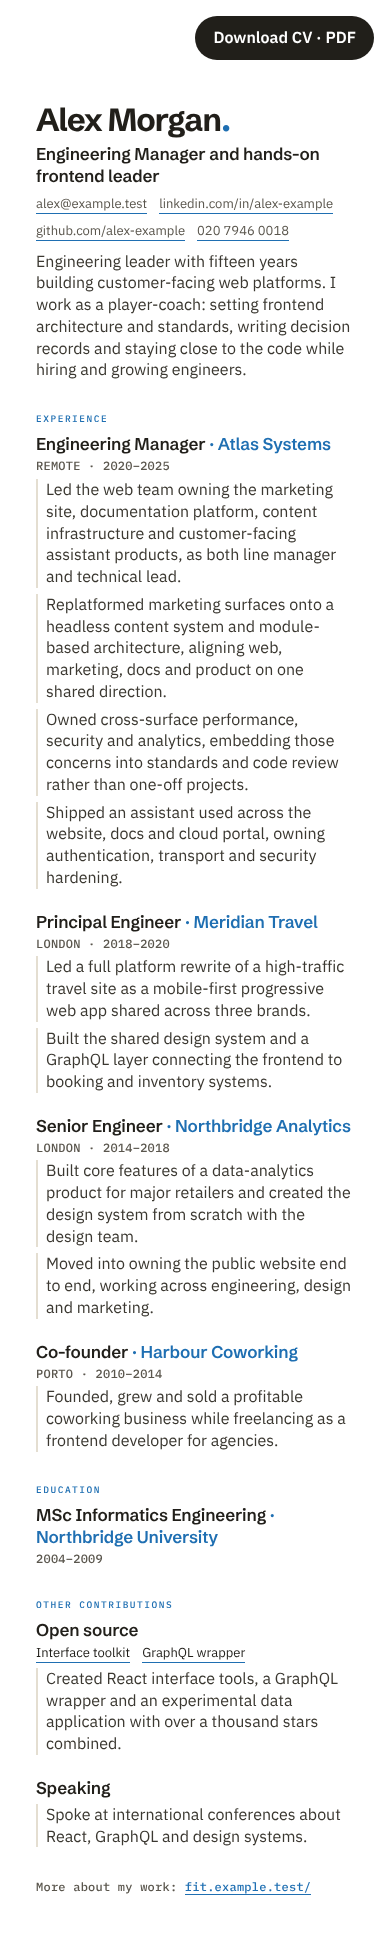
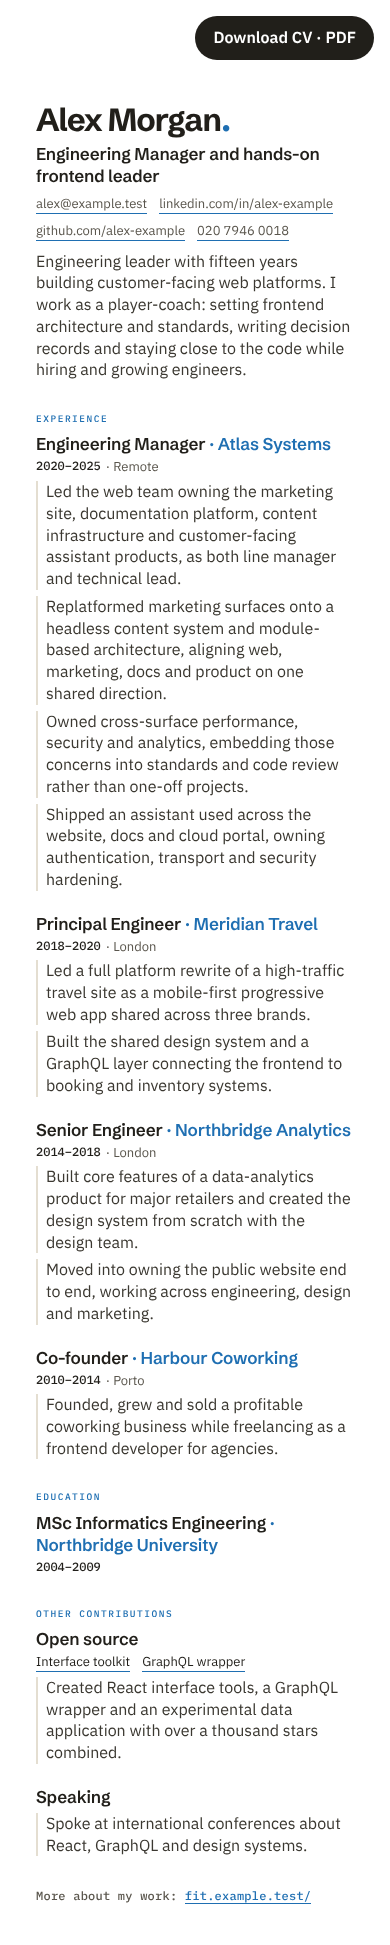
Lay out CV entries like the fit page CV
Dates and location move into a left meta column beside the title and
evidence, as on the fit page; on mobile the meta line sits under the
title.

Claude-Session: https://claude.ai/code/session_01GAwkU9J7SXUxrdqUJrLukE

diff --git a/lib/application-cv-render.js b/lib/application-cv-render.js
@@ -26,12 +26,16 @@ async function embeddedFonts() {
   return faces.map(([family,,weight],index) => `@font-face{font-family:${family};src:url(data:font/ttf;base64,${fonts[index]}) format('truetype');font-weight:${weight}}`).join('\n  ');
 }
 
+// Like the fit page CV: dates and place sit in a left meta column beside the
+// title and evidence. The meta column comes first in the DOM but carries no
+// validated text, so the PDF reading-order check is unaffected.
 function entryMarkup(entry, className='entry') {
-  const place=[entry.company ? entry.location : '',entry.dates].map(clean).filter(Boolean).join(' · ');
-  return `<article class="${className}"><div class="entry-head"><span class="entry-title"><strong>${escape(entry.title)}</strong>${entry.company || entry.location ? ` <span class="entry-org">· ${escape(entry.company || entry.location)}</span>` : ''}</span>
-    ${place ? `<span class="entry-when">${escape(place)}</span>` : ''}${publicApplicationCvLinks(entry.links).length ? `<div class="entry-links">${publicApplicationCvLinks(entry.links).map(link=>`<a href="${escape(link.href)}">${escape(link.label)}</a>`).join('')}</div>` : ''}</div>
+  const dates=clean(entry.dates),place=clean(entry.company ? entry.location : '');
+  return `<article class="${className}"><div class="entry-meta">${dates ? `<span class="entry-when">${escape(dates)}</span>` : ''}${place ? `<span class="entry-place">${escape(place)}</span>` : ''}</div>
+    <div class="entry-body"><div class="entry-head"><span class="entry-title"><strong>${escape(entry.title)}</strong>${entry.company || entry.location ? ` <span class="entry-org">· ${escape(entry.company || entry.location)}</span>` : ''}</span>
+    ${publicApplicationCvLinks(entry.links).length ? `<div class="entry-links">${publicApplicationCvLinks(entry.links).map(link=>`<a href="${escape(link.href)}">${escape(link.label)}</a>`).join('')}</div>` : ''}</div>
     ${(entry.bullets || []).map(bullet => `<p class="entry-detail">${escape(bullet.text)}</p>`).join('')}
-</article>`;
+</div></article>`;
 }
 
 export async function renderApplicationCvHtml(content,{minBodyPx=13,showDownload=false}={}) {
@@ -57,9 +61,11 @@ export async function renderApplicationCvHtml(content,{minBodyPx=13,showDownload
   .intro{margin:10px 0 0;max-width:180mm;color:var(--body)}
   section{margin-top:7mm;background:transparent;border:0;border-radius:0;padding:0}
   h2{font:500 9.5px/1.3 PlexMono,monospace;letter-spacing:.16em;text-transform:uppercase;color:var(--accent);margin:0 0 8px}
-  .entry{margin:0 0 12px;break-inside:avoid}.entry:last-child{margin-bottom:0}.entry-head{display:flex;justify-content:space-between;gap:10px;align-items:baseline}
+  .entry{display:grid;grid-template-columns:29mm minmax(0,1fr);column-gap:5mm;margin:0 0 12px;break-inside:avoid}.entry:last-child{margin-bottom:0}
+  .entry-meta{display:flex;flex-direction:column;gap:1px;padding-top:2px}.entry-place{font-size:10.5px;line-height:1.35;color:var(--sub)}
+  .entry-head{display:flex;justify-content:space-between;gap:10px;align-items:baseline}
   .entry-title{font:600 14px/1.3 Schibsted,Plex,sans-serif;letter-spacing:-.01em}.entry-title strong{font-weight:600}.entry-org{color:var(--accent)}
-  .entry-when{font:500 9.5px/1.3 PlexMono,monospace;letter-spacing:.02em;white-space:nowrap;color:var(--sub);text-transform:uppercase}
+  .entry-when{font:500 9.5px/1.4 PlexMono,monospace;letter-spacing:0;white-space:nowrap;color:#211f1a}
   .entry-detail{margin:4px 0 0;padding-left:8px;border-left:2px solid #e4ded1;break-inside:avoid;color:var(--body)}.entry-head+.entry-detail{margin-top:5px}section:first-of-type .entry-detail+.entry-detail{margin-top:6px}
   .entry-links{display:flex;flex-wrap:wrap;justify-content:flex-end;gap:3px 12px;margin-left:auto;font-size:11px;text-align:right;min-width:0}.entry-links a{max-width:100%;overflow-wrap:anywhere}
   footer{margin-top:auto;padding:6mm 0 0;font:500 9.5px/1.4 PlexMono,monospace;letter-spacing:.02em;color:var(--sub)}
@@ -68,7 +74,7 @@ export async function renderApplicationCvHtml(content,{minBodyPx=13,showDownload
   @media screen{body{background:#fff;padding:24px 20px}.page{margin:auto;overflow:hidden}
     .download{display:flex;justify-content:flex-end;max-width:210mm;margin:0 auto 16px}.download a{display:inline-flex;align-items:center;gap:8px;min-height:44px;padding:10px 18px;background:#211f1a;color:#fff;border:0;border-radius:999px;font-weight:600}
     .download a:hover{background:#1f6fb2}
-    @media(max-width:834px){body{padding:16px;font-size:16px}.page{width:100%;min-height:0;padding:28px 20px 24px}header{padding:0}section{margin-top:32px;padding:0}footer{padding:32px 0 0;font-size:12px}h1{font-size:32px}.headline{font-size:17px}.entry-head{flex-direction:column;gap:3px}.entry-title{font-size:17px}.entry-when{white-space:normal;font-size:12px}.contacts{font-size:13px}.contacts,.entry-links{gap:8px 12px}.entry-links{font-size:13px;margin-left:0;justify-content:flex-start;text-align:left}.entry{margin-bottom:22px}.entry-detail{margin-top:6px}a{overflow-wrap:anywhere}}}
+    @media(max-width:834px){body{padding:16px;font-size:16px}.page{width:100%;min-height:0;padding:28px 20px 24px}header{padding:0}section{margin-top:32px;padding:0}footer{padding:32px 0 0;font-size:12px}h1{font-size:32px}.headline{font-size:17px}.entry-head{flex-direction:column;gap:3px}.entry-title{font-size:17px}.entry-when{white-space:normal;font-size:12px}.contacts{font-size:13px}.contacts,.entry-links{gap:8px 12px}.entry-links{font-size:13px;margin-left:0;justify-content:flex-start;text-align:left}.entry{margin-bottom:22px;grid-template-columns:minmax(0,1fr)}.entry-body{display:contents}.entry-head{order:1}.entry-meta:empty{display:none}.entry-meta{order:2;flex-direction:row;flex-wrap:wrap;gap:0 5px;padding-top:3px}.entry-place{font-size:13px}.entry-meta .entry-when+.entry-place::before{content:'· '}.entry-detail{order:3}.entry-detail{margin-top:6px}a{overflow-wrap:anywhere}}}
   </style></head><body>${general && showDownload ? '<nav class="download" aria-label="CV download"><a href="/bernardo-raposo-cv.pdf">Download CV · PDF</a></nav>' : ''}<main class="page" id="cv-page"><header><h1>${escape(content.identity?.name)}<span class="dot" aria-hidden="true">.</span></h1>
   <p class="headline">${escape(content.identity?.headline)}</p><div class="contacts">${contacts}</div>
   ${content.summary && content.summary !== content.identity?.headline ? `<p class="intro">${escape(content.summary)}</p>` : ''}</header>

diff --git a/DESIGN.md b/DESIGN.md
@@ -326,7 +326,7 @@ The shared radius is 0.75rem. At the default 16px root size, the existing Tailwi
 - The fit report presents three categories under “Where I land” and three differentiators under “What sets me apart” for the current prompt. Keep the experience numbers, beside the text on desktop and above it on mobile. Both sections share title typography (16–21px, weight 600, line-height 1.3) and body typography (16px, line-height 1.65, body2 colour). Render all supplied entries so older reports keep their content.
 - The master CV and standalone cover letter use the public identity from the Sanity CV document. A role-specific customised CV is private and available only through authenticated admin actions until explicitly published. Candidate profile details are private and must never be projected wholesale into a public page.
 - Application CVs include every major career role and select the strongest truthful evidence for the target job description within each role; relevance guides emphasis, not which major roles disappear. Use “Other contributions” for compact independent-work, open-source and speaking entries. Group related open-source packages into one supported overview with labelled, approved project links; keep speaking distinct. Within career entries, retain supported business, leadership and organisational experience alongside technical delivery. Describe company growth and platform scale as context unless the evidence explicitly credits a candidate outcome. Apply the same clean hierarchy to the downloadable PDF: no horizontal divider rules or bullet markers; each evidence paragraph is indented with a light 2px left border that works as the list marker (also on the fit page CV), small paragraph gaps, larger entry gaps and the largest gaps between sections. Preserve readable type and A4 overflow checks instead of shrinking the text to compensate for spacing.
-- Public documents share one accent (`oklch(0.52 0.14 250)`, `#1f6fb2` in the bundled-font PDF) and the brand mark: the candidate name is followed by an accent full stop on the fit page CV, application/general CV and cover letter. On the personalised fit page, “What I bring” differentiators sit in white cards on the warm paper background (one column on mobile), and the Application CV sits on its own white sheet so the downloadable document reads as distinct from the pitch. Its roles use a left meta column for dates and location beside the title, “· company” and evidence; on mobile the meta line moves under the title. The Download CV · PDF action is a filled ink pill. The A4 CV and standalone general/application CV readers use a fully white page and white screen background, without section boxes, corner rounding or sheet shadows. Keep the layout balanced with one shared left edge: the header, section labels, entries and footer all align to the page padding (12mm top, 13mm sides, 9mm bottom on A4; 20px sides in the mobile reader), with no extra inset on the header or sections. Space sections evenly with a 7mm top margin (32px in the mobile reader), entries 12px apart (22px on mobile), and 6px between successive job evidence paragraphs (4px elsewhere). Put contribution links on the right of the title row, aligned like career dates; allow link groups to wrap and stack below the title on mobile. Keep the footer at the foot of the sheet. Use spacing alone between Experience, Education and Other contributions; keep all horizontal separators absent, including around the header and footer. Do not add a coloured side border to the header. Section labels are plain accent IBM Plex Mono capitals with no leading marker; entry headings set “Title” in Schibsted with “· Company” in the accent, and “Location · Dates” in small Plex Mono on the right; the fit/public link sits on the paper at the foot of the page. The renderer embeds Plex Sans 400/600, Schibsted Grotesk 600/700 and Plex Mono 500 from `lib/assets/cv-fonts`. Do not use positioned elements in the PDF header: they change the PDF text order that validation checks. On the fit page CV, company names also use the accent and dates use Plex Mono. The cover letter uses wider A4 margins and 13.5px body text with spacing (not a divider rule) between header and letter; a maximum-length letter must still fit one page.
+- Public documents share one accent (`oklch(0.52 0.14 250)`, `#1f6fb2` in the bundled-font PDF) and the brand mark: the candidate name is followed by an accent full stop on the fit page CV, application/general CV and cover letter. On the personalised fit page, “What I bring” differentiators sit in white cards on the warm paper background (one column on mobile), and the Application CV sits on its own white sheet so the downloadable document reads as distinct from the pitch. Its roles use a left meta column for dates and location beside the title, “· company” and evidence; on mobile the meta line moves under the title. The Download CV · PDF action is a filled ink pill. The A4 CV and standalone general/application CV readers use a fully white page and white screen background, without section boxes, corner rounding or sheet shadows. Keep the layout balanced with one shared left edge: the header, section labels, entries and footer all align to the page padding (12mm top, 13mm sides, 9mm bottom on A4; 20px sides in the mobile reader), with no extra inset on the header or sections. Space sections evenly with a 7mm top margin (32px in the mobile reader), entries 12px apart (22px on mobile), and 6px between successive job evidence paragraphs (4px elsewhere). Like the fit page CV, each entry has a 29mm left meta column with dates in Plex Mono ink on one line and the location below in small grey text, beside the title, “· Company” and evidence; on mobile the meta line moves under the title. Entries without dates or location keep the empty column so titles stay aligned. Contribution links stay on the right of the title row. Put contribution links on the right of the title row, aligned like career dates; allow link groups to wrap and stack below the title on mobile. Keep the footer at the foot of the sheet. Use spacing alone between Experience, Education and Other contributions; keep all horizontal separators absent, including around the header and footer. Do not add a coloured side border to the header. Section labels are plain accent IBM Plex Mono capitals with no leading marker; entry headings set “Title” in Schibsted with “· Company” in the accent; the fit/public link sits on the paper at the foot of the page. The renderer embeds Plex Sans 400/600, Schibsted Grotesk 600/700 and Plex Mono 500 from `lib/assets/cv-fonts`. Do not use positioned elements in the PDF header: they change the PDF text order that validation checks. On the fit page CV, company names also use the accent and dates use Plex Mono. The cover letter uses wider A4 margins and 13.5px body text with spacing (not a divider rule) between header and letter; a maximum-length letter must still fit one page.
 - Document readers reflow at mobile widths while print retains A4 geometry. Letters may contain older, longer content; overflow warnings must remain visible and old saved paragraphs must not be silently cut to satisfy new generation budgets.
 
 - For visual changes, inspect the affected screen in the browser at desktop and mobile widths; include 1280, 768, 390 and 360 px where relevant. Exercise realistic long names, missing fields, scrolling, empty/stale/running/failed states and keyboard interactions.
